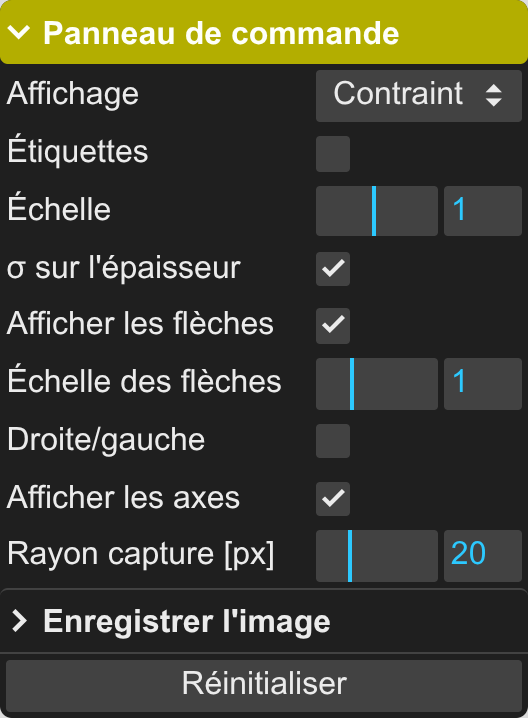
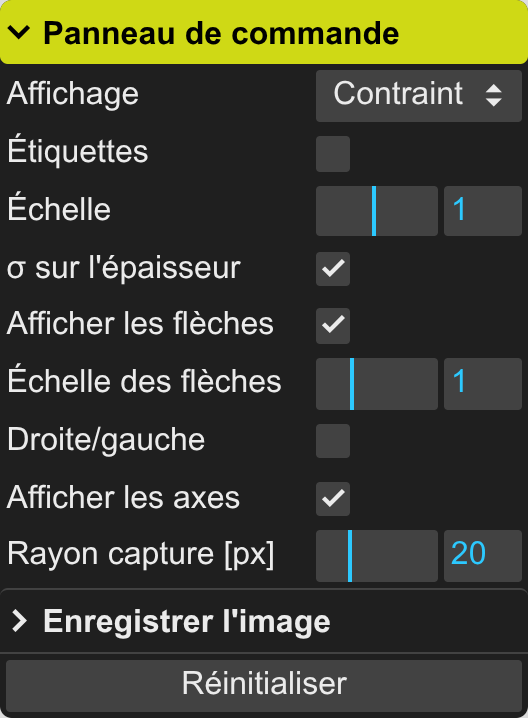
3D: Titelleiste des Bedienfelds in der Tabellenfarbe
Hintergrund und Schrift der Titelleiste folgen der im Tab ꔷꔷꔷ gewählten
Hintergrund- und Textfarbe der Tabellen (vorher fest #b3ae00, obwohl der
Hinweis im Tab ꔷꔷꔷ das schon versprach). Bilder bedienfeld_*.png der
Kurzdokumentation neu erzeugt.

Changed region(s): [[0.0, 0.0, 1.0, 0.0919]]

diff --git a/src/styles/main.css b/src/styles/main.css
@@ -674,8 +674,9 @@ sl-color-picker::part(trigger) {
     --slider-input-width: 30%;
     --slider-input-min-width: 2.4rem;
     --folder-indent: 0.4rem;
-    --title-background-color: #b3ae00;
-    --title-text-color: #fefffa;
+    /* Titelleiste in der im Tab ꔷꔷꔷ gewählten Tabellenfarbe (Text hell/dunkel passend dazu) */
+    --title-background-color: var(--table_bg, #cfd915);
+    --title-text-color: var(--table_fg, #000000);
 }
 
 /* rechts unten, damit es auf dem Smartphone nicht mit dem Bedienfeld überlappt */
